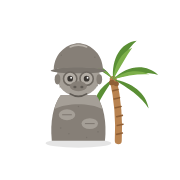
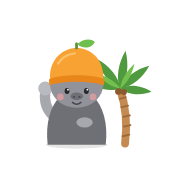
cat-house: 앱 아이콘을 귤모자 돌하르방 + 야자수 그림으로 변경
Claude-Session: https://claude.ai/code/session_017Yu3a2CvjA67Uw9nVVeR1S

Changed region(s): [[0.1944, 0.1944, 0.8889, 0.8333]]

diff --git a/cat-house/index.html b/cat-house/index.html
@@ -7,8 +7,8 @@
   <meta name="color-scheme" content="light">
   <meta name="theme-color" content="#f6f5f3">
   <link rel="manifest" href="manifest.webmanifest">
-  <link rel="icon" type="image/png" href="icon-192.png?v=jeju1">
-  <link rel="apple-touch-icon" href="apple-touch-icon.png?v=jeju1">
+  <link rel="icon" type="image/png" href="icon-192.png?v=jeju2">
+  <link rel="apple-touch-icon" href="apple-touch-icon.png?v=jeju2">
   <meta name="apple-mobile-web-app-capable" content="yes">
   <meta name="mobile-web-app-capable" content="yes">
   <meta name="apple-mobile-web-app-title" content="가족 소식통">
@@ -16,11 +16,11 @@
   <link rel="preconnect" href="https://fonts.googleapis.com">
   <link rel="preconnect" href="https://fonts.gstatic.com" crossorigin>
   <link href="https://fonts.googleapis.com/css2?family=Gowun+Dodum&family=Jua&display=swap" rel="stylesheet">
-  <link rel="stylesheet" href="style.css?v=20261024a">
+  <link rel="stylesheet" href="style.css?v=20261025a">
 </head>
 <body>
   <div id="splash" class="splash" aria-hidden="true">
-    <img src="icon-192.png?v=jeju1" alt="" width="120" height="120">
+    <img src="icon-192.png?v=jeju2" alt="" width="120" height="120">
     <div class="splash-text">우리 가족 소식통</div>
   </div>
 
@@ -570,6 +570,6 @@
     window.dispatchEvent(new Event("cloud-ready"));
   </script>
 
-  <script src="script.js?v=20261024a"></script>
+  <script src="script.js?v=20261025a"></script>
 </body>
 </html>
